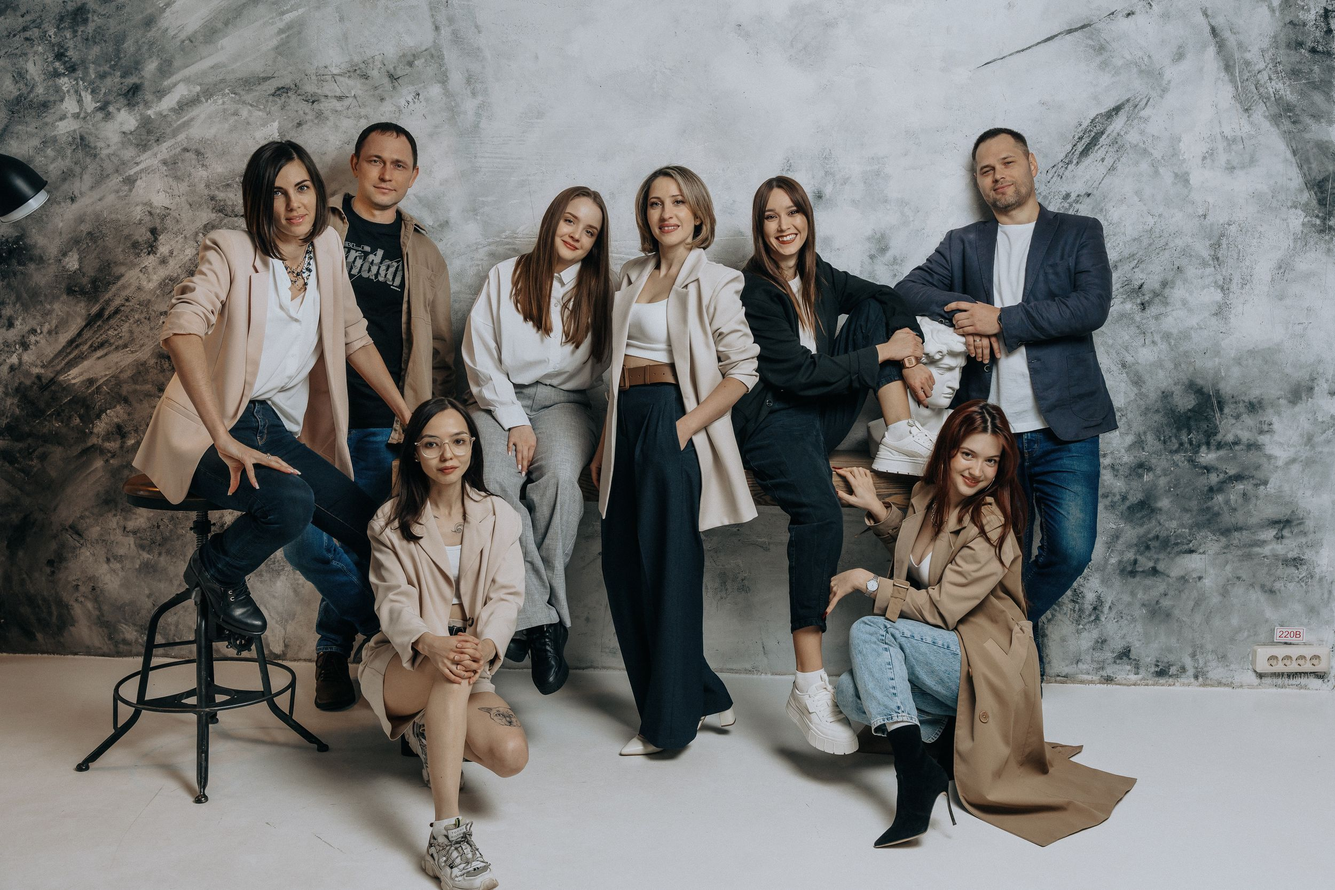
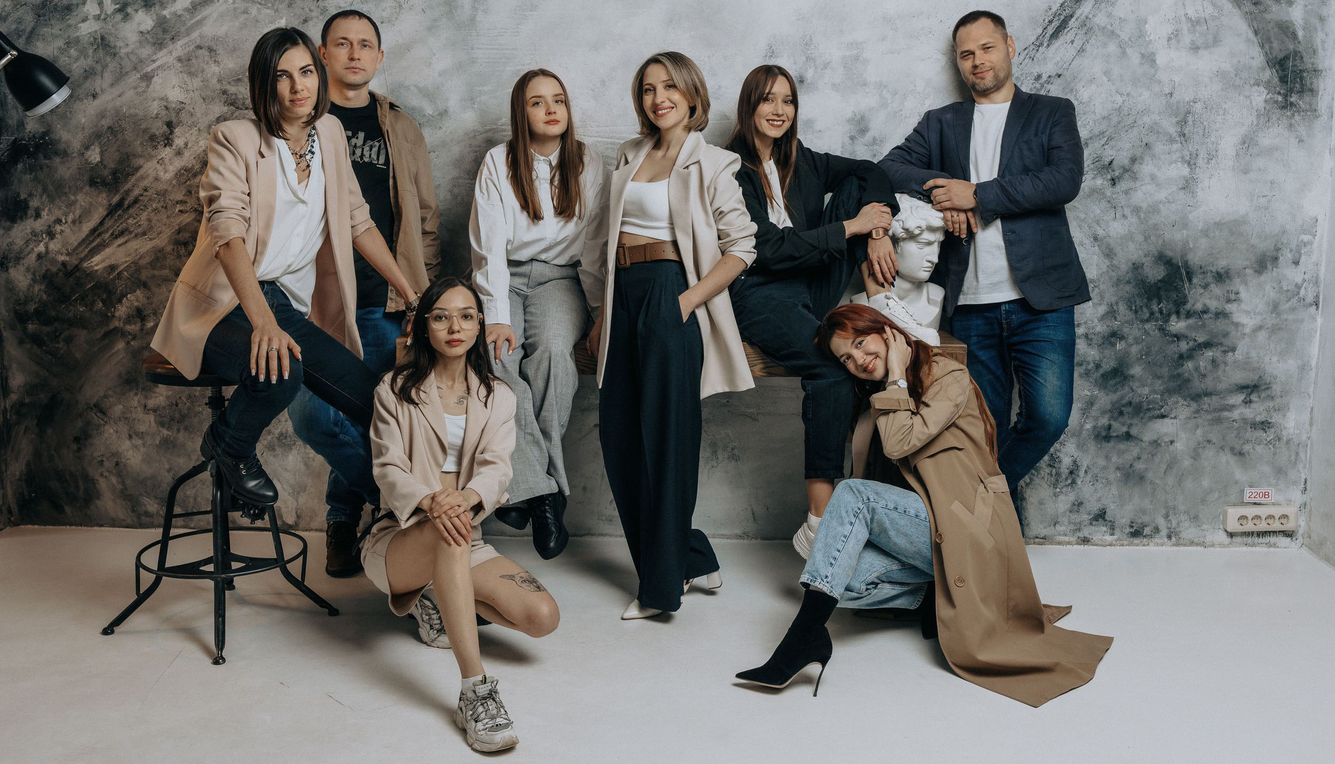
Updated images

diff --git a/src/assets/images/index.js b/src/assets/images/index.js
@@ -21,9 +21,9 @@ export { default as checklist } from './art/checklist.png';
 // Photos
 export { default as photo1 } from './photos/olga.jpeg';
 export { default as photo2 } from './photos/olga-2.webp';
-export { default as photo3 } from './photos/anastasia.png';
 export { default as photo4 } from './photos/olga-3.jpg';
 export { default as photo5 } from './photos/olga-4.jpg';
+export { default as teamPhoto } from './photos/team.jpg';
 
 // Projects
 // Boss-Lounge
@@ -64,6 +64,8 @@ export { default as lesnoiPark16 } from './projects/lesnoi/lesnoi-16.jpg';
 export { default as lesnoiPark17 } from './projects/lesnoi/lesnoi-17.jpg';
 export { default as lesnoiPark18 } from './projects/lesnoi/lesnoi-18.jpg';
 export { default as lesnoiPark19 } from './projects/lesnoi/lesnoi-19.jpg';
+export { default as lesnoiPark20 } from './projects/lesnoi/lesnoi-20.jpg';
+export { default as lesnoiPark21 } from './projects/lesnoi/lesnoi-21.jpg';
 
 // Thai Massage
 export { default as taiMassage1 } from './projects/thai/thai-1.jpg';
